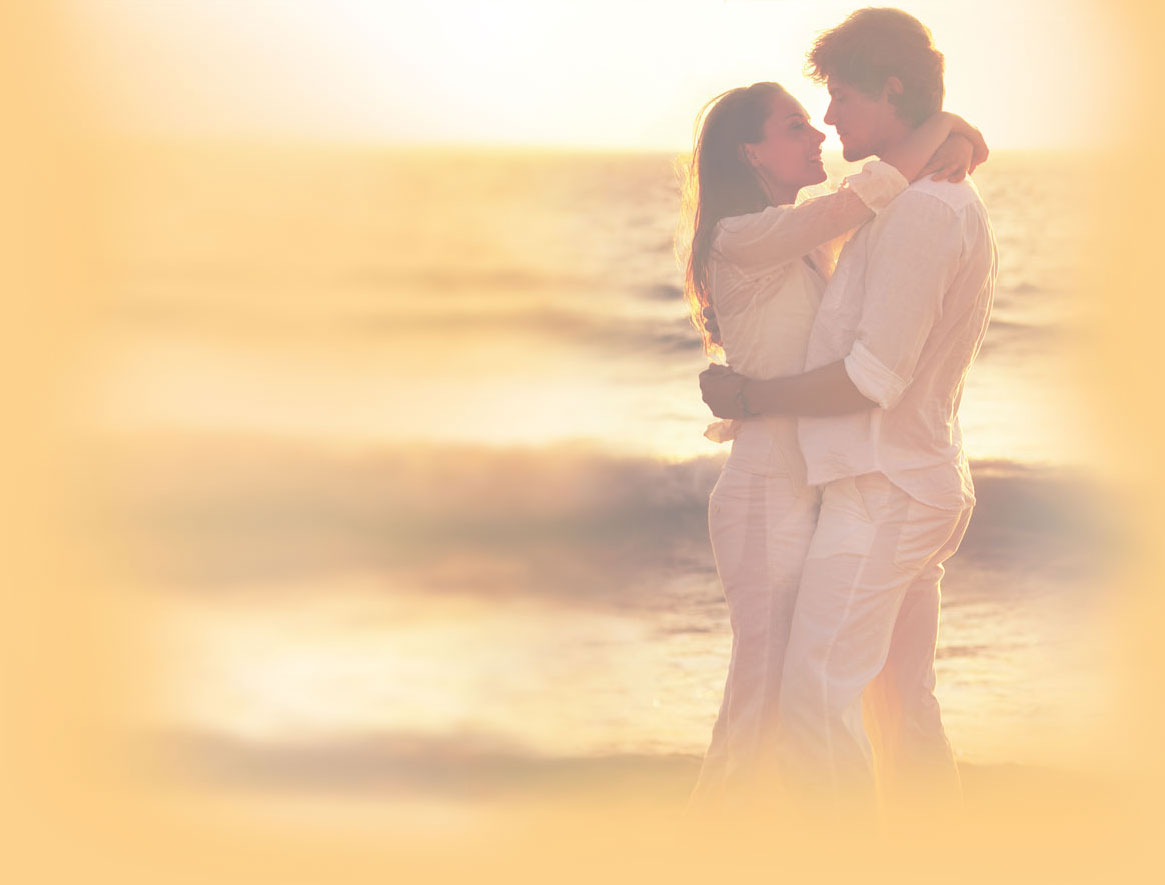
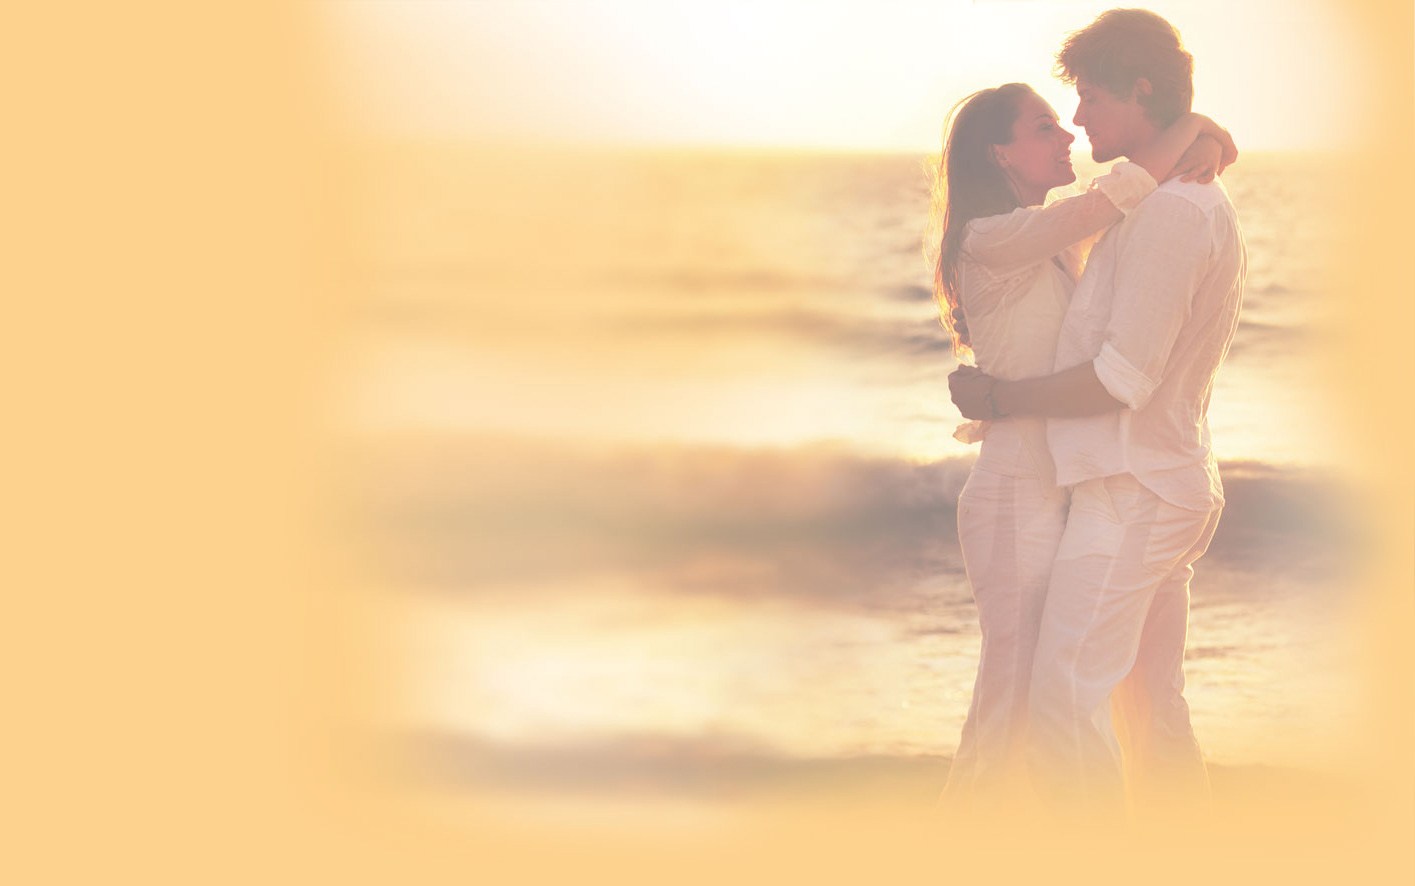
fixed content width and position

diff --git a/wp-content/themes/tantra/style.css b/wp-content/themes/tantra/style.css
@@ -50,33 +50,42 @@ http://blog.typekit.com/2011/11/09/type-study-sizing-the-legible-letter/
 
 
 @font-face {
-	font-family: GraublauWeb;
+	font-family: NexaLight;
 	src: url("fonts/NexaLight.otf") format("opentype");
 }
 
 @font-face {
-	font-family: GraublauWeb;
+	font-family: NexaBold;
 	src: url("fonts/NexaBold.otf") format("opentype");
 }
 
 body {
 	background-image: url(img/bg1.jpg);	
-	font-family: GraublauWeb, Arial, Helvetica, sans-serif;
+	font-family: NexaBold, Arial, Helvetica, sans-serif;
 	font-size: 11pt;
 /*	text-rendering: optimizeLegibility; */
 	color: #000;
 	line-height: 1.2;
 	background-attachment: fixed;
-	letter-spacing: -1px;
+/*	letter-spacing: -1px; */
+	background-position: top center;
+	background-color: #fdd28f;
 	
 }
 
+#header { margin-top: 9px; }
 
+#language { float: right; color: #666; font-family: NexaLight, Arial, Helvetica, sans-serif; }
 
+#language>a { color: #666; text-decoration: none; }
 
-
-
-
+	
+#page {	
+	max-width: 650px;
+	margin-left: auto;
+	margin-right: auto;
+	overflow: hidden;
+}
 
 
 
@@ -434,8 +443,6 @@ a:hover {
 
 /* Header */
 .site-header {
-	padding: 24px 0;
-	padding: 1.714285714rem 0;
 }
 .site-header h1,
 .site-header h2 {
@@ -1329,11 +1336,11 @@ img#wpstats {
 		float: right;
 		width: 80%;
 	}
-	.site {
+	.site { /*
 		margin: 0 auto;
 		max-width: 960px;
 		max-width: 50rem;
-		overflow: hidden;
+		overflow: hidden; */
 	}
 	.site-content {
 		float: left;

diff --git a/wp-content/themes/tantra/header.php b/wp-content/themes/tantra/header.php
@@ -41,7 +41,7 @@
 
 
 
-
+<!--
 
 <table border="1" width="100%">
   <tr>
@@ -54,15 +54,15 @@
   </tr>
 </table>
 
-
+-->
     <div id="header">
         <div id="language">
-
+<a href="http://tantrafestival.ee/et/">EST</a> | <a href="http://tantrafestival.ee/">ENG</a>
         </div><!-- .language -->
     
         <div id="keke">
          
-			<img src="http://tantrafestival.ee/wp-content/uploads/2013/03/Festival_logo.png" style="margin-top: -10px;">
+			<img src="<?php echo get_template_directory_uri(); ?>/img/Festival_logo.png" style="margin-top: 0;">
          
         </div><!-- .keke -->
 
